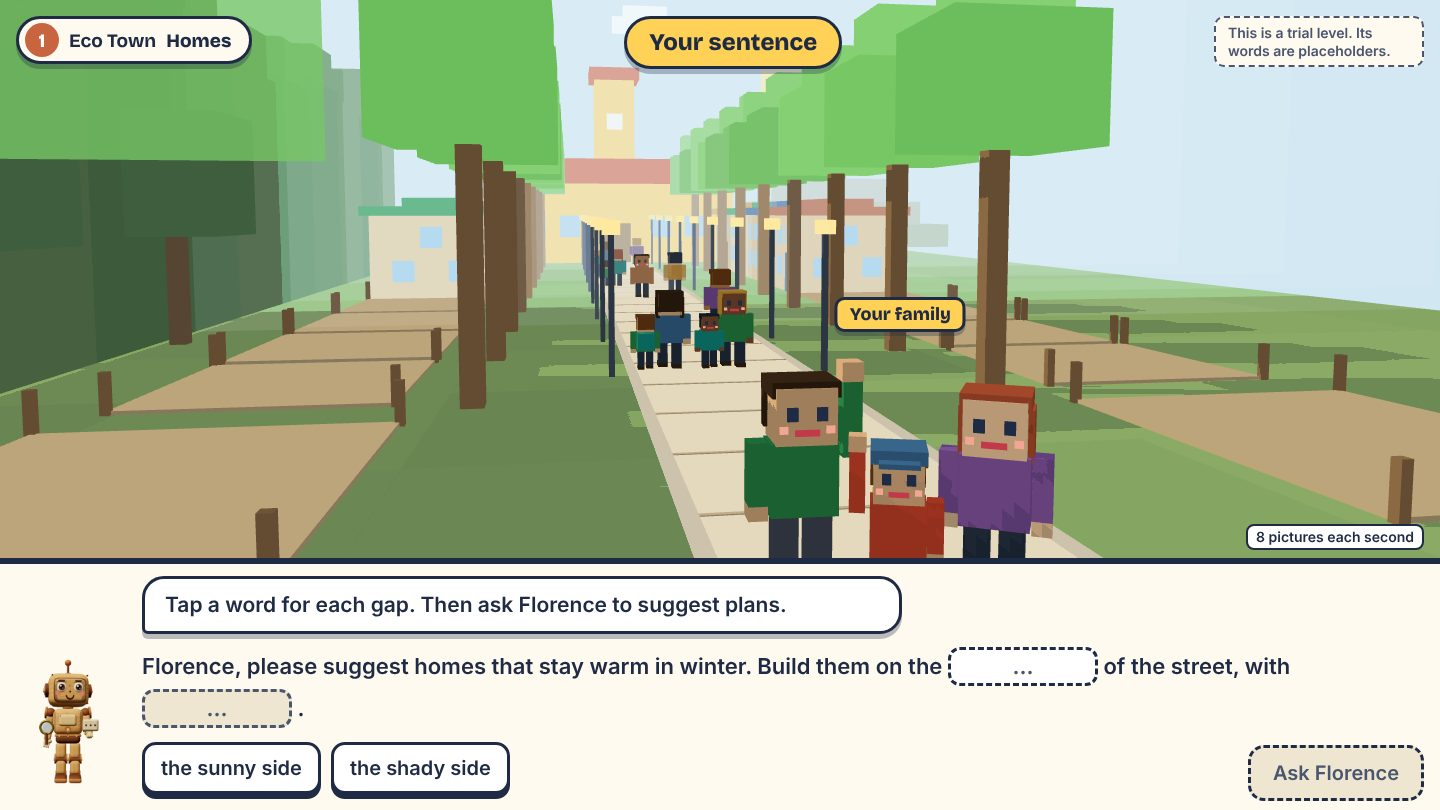
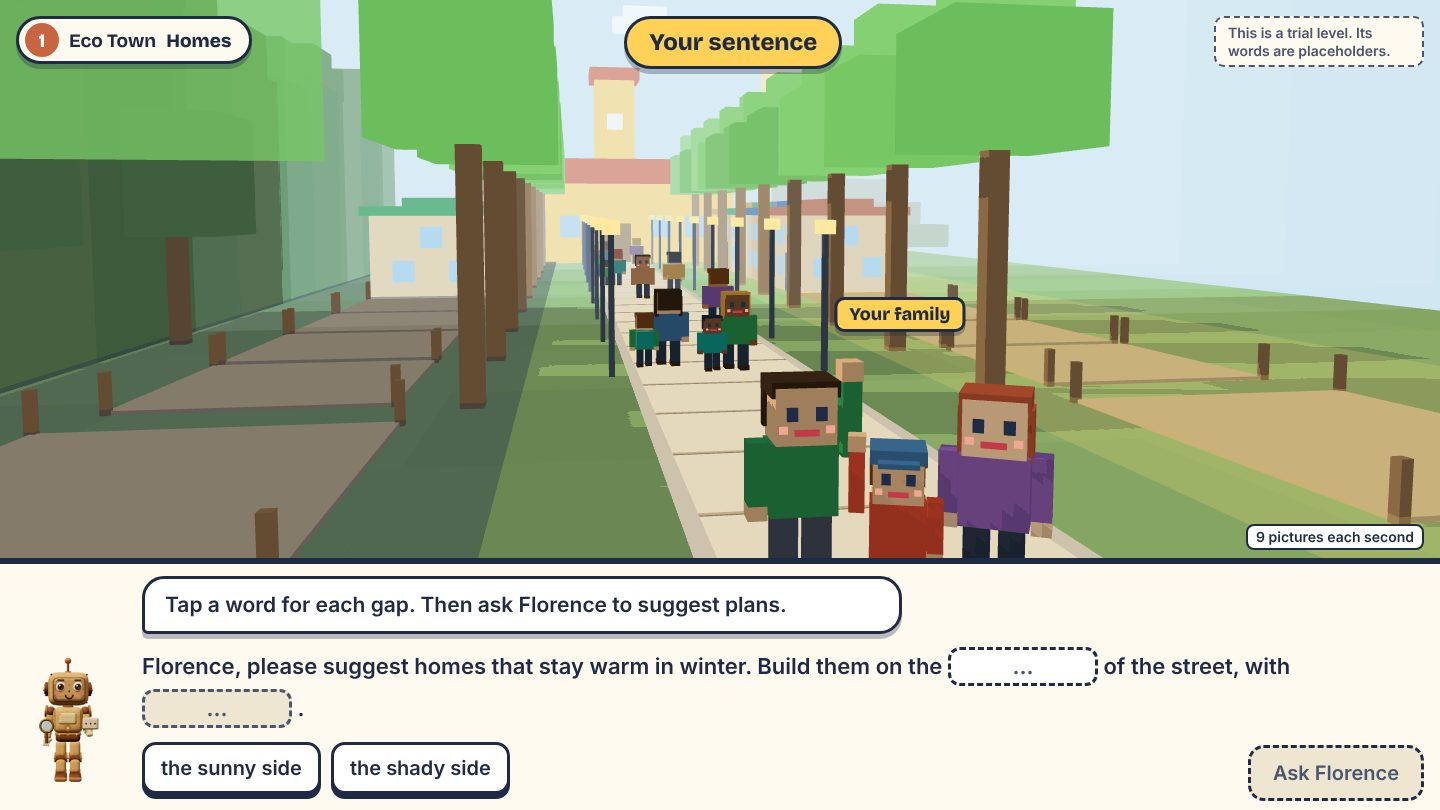
Trial level: the play break redesigned as an open home where the child lets the sun in, and a darker winter night
Claude-Session: https://claude.ai/code/session_01Ecde5Lvgabpd1qnHSP6bP6

diff --git a/docs/redesign/concepts/trial/trial.js b/docs/redesign/concepts/trial/trial.js
@@ -20,13 +20,16 @@ const T = { level: 'A warm home for winter',
   plans: [['Timber home', 'Wood from the town forest, cut in a sawmill that runs on sunshine.'], ['Brick home', 'Clay bricks, baked hard in a hot oven.'], ['Concrete home', 'Cement, made in a very hot kiln.']],
   checks: ['Staying warm', 'Clean air'], warm: { g: 'It stays warm all night.', f: 'It gets a little cold by morning.', p: 'It is cold inside all night.' }, tag: { g: 'Warm', f: 'A little cold', p: 'Cold' },
   air: ['Making the wood adds no pollution.', 'Baking the bricks adds some pollution.', 'Making the cement adds a lot of pollution.'],
-  build: 'Build your home', win2: 'You have two windows. Tap a yellow place to put one in.', win1: 'You have one more window. Tap a yellow place to put it in.', roof: 'Tap the yellow place to lower the roof.', shadyWin: 'The walls on this side are in shade, but the sun reaches the roof. A window in the roof lets it in.', door: 'Choose a colour for the door. Then tap the yellow place.',
-  sunIn: 'The winter sun shines in through this window and warms the home.', noSun: 'This wall is in shade, so no sun comes in here. You can tap the window to take it out again.', shade: 'No wall on this side of the street gets the winter sun.',
-  ready: ['The home is ready, and your family is moving in.', 'One window catches the sun. The home is ready, and your family is moving in.', 'Both windows catch the sun. The home is ready, and your family is moving in.'],
+  build: 'Make it a home', buildHow: 'The front wall is see-through, so that you can look inside. Choose a thing, then tap a yellow place.', winMove: 'To move a window, tap it to take it out. Then tap another yellow place.', bedT: 'Bed', tableT: 'Table', sofaT: 'Sofa', last: 'Goes on last', sunThings: (a) => `The ${a.length > 1 ? `${a.slice(0, -1).join(', ')} and ${a[a.length - 1]} are` : `${a[0]} is`} in the winter sun.`, win2: 'You have two windows. Tap a yellow place in a wall to put one in.', win1: 'You have one more window. Tap a yellow place to put it in.', roof: 'Everything is inside. Tap the yellow place to lower the roof.', shadyWin: 'The walls on this side are in shade, but the sun reaches the roof. A window in the roof lets it in.', door: 'Choose a colour for the door. Then tap the yellow place.',
+  sunIn: 'The winter sun shines in through this window, and a patch of sun lies on the floor.', noSun: 'This wall is in shade, so no sun comes in here. To move it, choose Window and tap it.', shade: 'No wall on this side of the street gets the winter sun.',
+  ready: ['Now the roof lifts, so that you can look inside.', 'One window catches the sun. Now the roof lifts, so that you can look inside.', 'Both windows catch the sun. Now the roof lifts, so that you can look inside.'],
   window: 'Window', roofT: 'Roof', doorT: 'Door', left: (n) => `${n} left`, placed: 'In place', colour: 'Door colour', family: 'Your family', plot: 'Your plot', yours: 'Your home', next: 'Next',
   town: 'The street is built', homes: ['Timber homes', 'Brick homes', 'Concrete homes'], afterAir: ['Making the wood added no pollution, and the air is clean.', 'Baking the bricks added some pollution.', 'Making the cement added a lot of pollution.'],
   afterWarm: { g: 'The homes stay warm at night.', f: 'The homes get a little cold by morning.', p: 'The homes are cold at night.' }, built: 'The whole street is built your way.',
   tryOther: 'Try another plan', chooseOther: 'Choose a different plan to see it in the town.', first: 'Your first plan', what: 'What changed?', keepFirst: 'Go back to my first plan', keepThis: 'Keep this plan',
+  insideT: 'Make it a home', inside: ['The pale patches on the floor are where the sun comes in.', 'No sun comes in through these windows, so the floor has no patch of sun.'],
+  putAsk: ['Where does the bed go? Tap a yellow place.', 'Where does the table go? Tap a yellow place.', 'Where does the sofa go? Tap a yellow place.'],
+  inSun: ['The bed is in the sun. It will be warm to wake up in.', 'The table is in the sun. Breakfast will be bright.', 'The sofa is in the sun. It is a warm place to read.'], inRoom: ['The bed is in place.', 'The table is in place.', 'The sofa is in place.'], homeDone: 'The roof is on. The home is ready, and your family is moving in.',
   nightT: 'The first winter night', nightSay: { g: 'Snow is falling, and every home in your street glows warm.', f: 'Snow is falling. The homes in your street are a little cold tonight.', p: 'Snow is falling. The homes in your street are cold tonight.' }, recapT: 'One more question', recapQ: 'Which side of the street does the winter sun warm? Tap that side.', thisSide: 'This side', sunSide: 'The sunny side', recapYes: 'Yes. The low winter sun reaches this side, so homes here stay warmer.', recapNo: 'The winter sun shines on this side. The wood keeps the other side in shade.',
   end: 'This is the end of the trial level. Thank you for playing.', replay: 'Play again' };
 
@@ -67,7 +70,8 @@ let cur = null, tws = [], run = 0;
 function newScene(half, o = {}) { const scene = new THREE.Scene(), hemi = new THREE.HemisphereLight('#fff6e8', '#cfc6b0', 1.5), sun = new THREE.DirectionalLight('#ffe9c4', 1.7);
   scene.add(hemi); sun.position.set(...(o.sun || [-16, 30, 18])); sun.castShadow = true; sun.shadow.mapSize.set(2048, 2048); Object.assign(sun.shadow.camera, { left: -half, right: half, top: half * 0.75, bottom: -half * 0.75, near: 1, far: 160 }); sun.shadow.bias = -0.002; sun.shadow.normalBias = 0.09; scene.add(sun);
   scene.background = new THREE.Color(SKY); return { scene, hemi, sun, g: group(scene), picks: [], plates: [], minAspect: 1.9 }; }
-let swayT = 0;
+let swayT = 0; const NIGHTLEAF = new THREE.Color('#1f3d3c');
+const dimLeaves = (k) => { for (const m of mats.values()) if (m.isMeshBasicMaterial) { if (!m.userData.c) { m.userData.c = m.color.clone(); m.userData.leaf = m.color.g > m.color.r * 1.08 && m.color.g > m.color.b * 1.08; } if (m.userData.leaf) m.color.copy(m.userData.c).lerp(NIGHTLEAF, k); } };
 function fit() { if (!cur) return; const f = cur.fov * Math.PI / 180; cam.fov = cam.aspect >= cur.minAspect ? cur.fov : 2 * Math.atan(Math.tan(f / 2) * cur.minAspect / cam.aspect) * 180 / Math.PI; cam.position.set(cur.eye[0] + Math.sin(swayT * 0.31) * 0.16, cur.eye[1] + Math.sin(swayT * 0.23 + 1) * 0.09, cur.eye[2] + Math.cos(swayT * 0.27) * 0.16); cam.lookAt(cur.at[0], cur.at[1] - (view.clientHeight < 560 ? cur.drop || 0 : 0), cur.at[2]); cam.updateProjectionMatrix(); cam.updateMatrixWorld(); }
 // the camera glides from one view of the same place to another
 const glide = (to, sec = 1.6) => { const a = { eye: [...cur.eye], at: [...cur.at], fov: cur.fov, drop: cur.drop || 0 }, mix = (p, q, k) => p.map((v, i) => v + (q[i] - v) * k); return tw(sec, (k) => { const e = ease(k); cur.eye = mix(a.eye, to.eye, e); cur.at = mix(a.at, to.at, e); cur.fov = a.fov + (to.fov - a.fov) * e; cur.drop = a.drop + ((to.drop || 0) - a.drop) * e; fit(); }); };
@@ -97,7 +101,7 @@ function loop(now) { requestAnimationFrame(loop); const dt = Math.min(0.1, (now 
 
 // ---- the place: one street, used for the whole level -----------------------------------------------------------------------
 // Side 0 is the sunny side (on the right of the picture) and side 1 the shady side (on the left, under the wood).
-const SIDEZ = [-12.7, 12.7], PX = [1, -10, -18, -26, -34], VIEW = { street: { eye: [19, 5, 4.6], at: [-10, 3, 0], fov: 33 }, plans: [{ eye: [-13, 6.6, 14.5], at: [-18.5, 2.3, -12.7], fov: 48, drop: 1.7 }, { eye: [-23, 6.6, -14.5], at: [-17.5, 2.3, 12.7], fov: 48, drop: 1.7 }], build: [{ eye: [14.5, 4.6, -0.5], at: [0.5, 3.1, -10.2], fov: 33 }, { eye: [15, 9.6, 0], at: [0.5, 3.8, 10.4], fov: 33 }] };
+const SIDEZ = [-12.7, 12.7], PX = [1, -10, -18, -26, -34], VIEW = { street: { eye: [19, 5, 4.6], at: [-10, 3, 0], fov: 33 }, plans: [{ eye: [-13, 6.6, 14.5], at: [-18.5, 2.3, -12.7], fov: 48, drop: 1.7 }, { eye: [-23, 6.6, -14.5], at: [-17.5, 2.3, 12.7], fov: 48, drop: 1.7 }], build: [{ eye: [4, 13.5, 0.6], at: [1, 2.3, -12.2], fov: 36 }, { eye: [-2, 13.5, -0.6], at: [1, 2.3, 12.2], fov: 36 }], hero: [{ eye: [14.5, 4.6, -0.5], at: [0.5, 3.1, -10.2], fov: 33 }, { eye: [15, 9.6, 0], at: [0.5, 3.8, 10.4], fov: 33 }] };
 const HW = 10, HD = 8, HH = 5.2, FRONT = [-3, 0.2], GABLE = [-1.9, 1.9], DOORX = 3.4;
 function town() { const s = newScene(46, { sun: [-10, 36, 48] }), g = s.g; Object.assign(s, VIEW.street, { eye: [...VIEW.street.eye], at: [...VIEW.street.at], minAspect: 1.9 });
   const sunDir = new THREE.Vector3(-10, 36, 48).normalize();
@@ -118,7 +122,10 @@ function town() { const s = newScene(46, { sun: [-10, 36, 48] }), g = s.g; Objec
   // the low winter sun, on the sunny side, and two clouds
   const sunBox = B(g, -116, -27, 1, 8, 22, 8, '#ffe9a0', { raw: true, unlit: true, shadow: false }); const clouds = [[30, -8], [34, 20]].map(([y, z]) => { const c = group(g, -114, y, z); B(c, 0, 0, 2, 13, 0, 2, '#ffffff', { raw: true, unlit: true, wx: -114 }); B(c, 0, 2, 2, 6, 2, 1.5, '#ffffff', { raw: true, unlit: true, wx: -114 }); return c; });
   // large see-through leaves near the camera, over the edges of the picture
-  for (const [x, z] of [[12, 9.6]]) { B(g, x, z, 6, 5, 5.6, 3.2, LEAF[0], { op: 0.78, unlit: true, raw: true }); B(g, x + 1, z - 0.4, 3.6, 3.2, 8.8, 2, LEAF[1], { op: 0.78, unlit: true, raw: true }); B(g, x, z, 0.5, 0.5, 0, 5.6, '#8a6a44'); }
+  dimLeaves(0); const near = group(g);
+  // the wood keeps one side of the street in shade all day, and the low sun lies on the other side: both can be seen on the ground
+  blk(g, -30, 14.5, 96, 17, 0.12, 0.03, '#1b2a4a', { shadow: false, mat: soft('#1b2a4a', 0.34) }); blk(g, -30, -14.5, 96, 17, 0.12, 0.03, '#ffe27a', { shadow: false, mat: soft('#ffe27a', 0.2) });
+  for (const [x, z] of [[12, 9.6]]) { B(near, x, z, 6, 5, 5.6, 3.2, LEAF[0], { op: 0.78, unlit: true, raw: true }); B(near, x + 1, z - 0.4, 3.6, 3.2, 8.8, 2, LEAF[1], { op: 0.78, unlit: true, raw: true }); B(near, x, z, 0.5, 0.5, 0, 5.6, '#8a6a44'); }
   const sheets = [-24, -38, -52, -66].map((x, k) => blk(g, x, 0, 0.1, 110, 0, 56, SHEET, { shadow: false, mat: soft(SHEET, [0.1, 0.14, 0.18, 0.22][k]) }));
   // the empty plots near the camera, five on each side; the first on each side could be the family's plot
   const plots = SIDEZ.map((z, sd) => PX.map((x, k) => { const p = group(g, x, 0, z), w = k ? 7.3 : HW, d = k ? 7 : HD; B(p, 0, 0, w, d, 0, 0.1, '#dccaa2', { wx: x, shadow: false }); for (const [a, b] of [[-1, -1], [1, -1], [-1, 1], [1, 1]]) B(p, a * w / 2, b * d / 2, 0.22, 0.22, 0, 1.1, '#8a6a44', { wx: x });
@@ -134,7 +141,7 @@ function town() { const s = newScene(46, { sun: [-10, 36, 48] }), g = s.g; Objec
   const snow = []; for (let k = 0; k < 150; k++) { const m = blk(g, 12 - hash(k, 1) * 70, (hash(k, 2) - 0.5) * 50, 0.22, 0.22, 0, 0.22, '#fff', { shadow: false, mat: M('#ffffff', 0, { raw: true, unlit: true }) }); m.visible = false; snow.push({ m, y: hash(k, 4) * 24, v: 3 + hash(k, 6) * 2 }); }
   // night and day
   const day = new THREE.Color(SKY), dusk = new THREE.Color('#8ea2c8'), hemi0 = s.hemi.intensity, sun0 = s.sun.intensity, farGlass = M(GLASS, 0, { unlit: true, raw: true }); let nightK = 0;
-  s.setNight = (k) => { nightK = k; s.scene.background.copy(day).lerp(dusk, k); s.hemi.intensity = hemi0 * (1 - 0.3 * k); s.sun.intensity = sun0 * (1 - 0.8 * k); for (const sh of sheets) sh.material.color.set(SHEET).lerp(c0.set('#a9b8d6'), k); sunBox.visible = k < 0.5; for (const c of clouds) c.visible = k < 0.5; for (const f of snow) f.m.visible = k > 0.05; farGlass.color.set(GLASS).lerp(c0.set(LIT), k); for (const m of glow) m.visible = k > 0.5; };
+  s.setNight = (k) => { nightK = k; s.scene.background.copy(day).lerp(dusk, k); s.hemi.intensity = hemi0 * (1 - 0.3 * k); s.sun.intensity = sun0 * (1 - 0.8 * k); for (const sh of sheets) sh.material.color.set(SHEET).lerp(c0.set('#a9b8d6'), k); sunBox.visible = k < 0.5; for (const c of clouds) c.visible = k < 0.5; for (const f of snow) f.m.visible = k > 0.05; farGlass.color.set(GLASS).lerp(c0.set(LIT), k); for (const m of glow) m.visible = k > 0.5; dimLeaves(k * 0.62); };
 
   // ---- the child's words, drawn in the town ----
   s.side = null; s.thick = null;
@@ -159,49 +166,68 @@ function town() { const s = newScene(46, { sun: [-10, 36, 48] }), g = s.g; Objec
 
   // ---- the family's home, built by the child ----
   let H = null;
-  s.startBuild = async (pick) => { const me = run, sd = s.side, z = SIDEZ[sd], m = MAT[pick], R = { raw: true, wx: 0 }; famPlate.hide = true; plotPlate.hide = true;
+  // ---- the play break: the family's home, open at the front like a doll's house. The child lets the winter sun in and puts the family's things where it falls ----
+  s.startBuild = async (pick) => { const me = run, sd = s.side, z = SIDEZ[sd], m = MAT[pick]; famPlate.hide = true; plotPlate.hide = true;
     await Promise.all([tw(1.2, (k) => s.setNight(1 - ease(k))), ...samples.map((q) => pop(q.h, 1, 0.01, 0.5)), tw(1, (k) => { for (const q of samples) for (const p of q.cloud) p.m.material.opacity = 0.78 * (1 - k); })]); if (me !== run) return; s.clearPlans(); cloudT = -1;
     footing.forEach((pair) => pair.forEach((f) => { f.visible = false; })); plots[sd][0].visible = false;
-    const hg = group(g, PX[0], 0, z); hg.rotation.y = sd ? Math.PI : 0; const t = s.thick ? 0.9 : 0.3;
-    const wallMat = new THREE.MeshLambertMaterial({ color: m.wall }), lineMat = new THREE.MeshLambertMaterial({ color: m.line });
-    B(hg, 0, 0, HW + 0.8, HD + 0.8, 0, 0.3, '#d9d2c2', { wx: 0 }); const walls = group(hg, 0, 0.3, 0); B(walls, 0, 0, HW, HD, 0, HH, m.wall, { mat: wallMat }); for (const y of [1.3, 2.6, 3.9]) { B(walls, 0, HD / 2, HW, 0.04, y, 0.07, m.line, { mat: lineMat, shadow: false }); for (const sx of [-1, 1]) B(walls, sx * HW / 2, 0, 0.04, HD, y, 0.07, m.line, { mat: lineMat, shadow: false }); }
-    B(walls, 0, 0, HW + 0.04, HD + 0.04, HH - 0.12, 0.14, LINING, s.thick ? R : { mat: lineMat }); B(walls, 0, 0, HW - 2 * t, HD - 2 * t, HH - 0.1, 0.14, '#5a4630', { ...R, shadow: false });      // the top of the walls shows how thick they are
-    B(walls, DOORX, HD / 2 + 0.02, 1.8, 0.08, 0, 3.3, '#5a4630', { wx: 0, shadow: false }); walls.scale.y = 0.01;
-    // the yellow places: two on the front wall and two on each end wall
-    const spots = [...FRONT.map((x) => ({ wall: 'front', p: [x, 1.9, HD / 2 + 0.16], ry: 0 })), ...GABLE.map((zz) => ({ wall: 'end', p: [HW / 2 + 0.16, 1.9, zz], ry: Math.PI / 2 })), ...GABLE.map((zz) => ({ wall: 'end', p: [-HW / 2 - 0.16, 1.9, zz], ry: -Math.PI / 2 }))];
+    const hg = group(g, PX[0], 0, z); hg.rotation.y = sd ? Math.PI : 0; const t = s.thick ? 0.9 : 0.3, U = (c) => ({ shadow: false, mat: M(c, 0, { raw: true, unlit: true }) });
+    const wallMat = new THREE.MeshLambertMaterial({ color: m.wall }), lineMat = new THREE.MeshLambertMaterial({ color: m.line }), frontMat = new THREE.MeshLambertMaterial({ color: m.wall, transparent: true, opacity: 0.2, depthWrite: false });
+    B(hg, 0, 0, HW + 0.8, HD + 0.8, 0, 0.3, '#d9d2c2', { wx: 0 }); const walls = group(hg, 0, 0.3, 0);
+    blk(walls, 0, 0, HW - 0.2, HD - 0.2, 0, 0.06, '#d2ab74', U('#d2ab74')); for (let k = 0; k < 5; k++) blk(walls, 0, -3.1 + k * 1.55, HW - 2 * t, 0.05, 0.06, 0.02, '#b98f58', U('#b98f58'));
+    // the back wall and the two end walls are solid, as thick as the child asked for; the front wall is see-through until the roof is on
+    blk(walls, 0, -HD / 2 + t / 2, HW, t, 0, HH, m.wall, { mat: wallMat }); for (const sx of [-1, 1]) blk(walls, sx * (HW / 2 - t / 2), 0, t, HD - 2 * t, 0, HH, m.wall, { mat: wallMat });
+    const front = blk(walls, 0, HD / 2 - t / 2, HW, t, 0, HH, m.wall, { shadow: false, mat: frontMat });
+    blk(walls, 0, -HD / 2 + t + 0.03, HW - 2 * t, 0.06, 0.06, HH - 0.1, '#f1e6cf', U('#f1e6cf')); for (const sx of [-1, 1]) blk(walls, sx * (HW / 2 - t - 0.03), 0, 0.06, HD - 2 * t, 0.06, HH - 0.1, '#e6d9bd', U('#e6d9bd'));
+    if (s.thick) { blk(walls, 0, -HD / 2 + t / 2, HW, t, HH, 0.05, LINING, U(LINING)); for (const sx of [-1, 1]) blk(walls, sx * (HW / 2 - t / 2), 0, t, HD - 2 * t, HH, 0.05, LINING, U(LINING)); }
+    walls.scale.y = 0.01;
+    // the yellow places for windows: two in the front wall, one in an end wall, two in the back wall
+    const spots = [...FRONT.map((x) => ({ wall: 'front', p: [x, 1.9, HD / 2 - t / 2], f: [x, 1.9, HD / 2 + 0.12], ry: 0 })), { wall: 'end', p: [-HW / 2 + t / 2, 1.9, 0], f: [-HW / 2 + t + 0.12, 1.9, 0], ry: Math.PI / 2 }, ...[-2.4, 2.4].map((x) => ({ wall: 'back', p: [x, 1.9, -HD / 2 + t / 2], f: [x, 1.9, -HD / 2 + t + 0.12], ry: 0 }))];
     // on the shady side the walls get no sun, but the sun comes over the wood onto the roof: two more places, for windows in the roof
-    if (sd) for (const x of [-2.6, 2.6]) spots.push({ wall: 'roof', p: [x, 0.3 + HH + 0.62, 3.9], ry: 0, flat: true });
-    const lit = glassMat(), beamMat = soft('#ffe27a', 0.34);
-    for (const q of spots) { q.frame = group(hg, ...q.p); q.frame.rotation.y = q.ry; if (q.flat) q.frame.rotation.x = -Math.PI / 2; frame(q.frame, 0, 0, 0, 2.3, 2.1, true); q.frame.visible = false;
-      q.part = group(hg, ...q.p); q.part.rotation.y = q.ry; if (q.flat) q.part.rotation.x = -Math.PI / 2; blk(q.part, 0, 0, 2.3, 0.24, 0, 2.1, '#fbfbf7', { mat: M('#fbfbf7', 0, { raw: true }) }); q.glass = glassMat(); blk(q.part, 0, 0.06, 1.95, 0.22, 0.17, 1.76, GLASS, { shadow: false, mat: q.glass }); blk(q.part, 0, 0.1, 0.12, 0.22, 0.17, 1.76, '#fbfbf7', { shadow: false, mat: M('#fbfbf7', 0, { raw: true }) }); q.part.visible = false;
+    if (sd) for (const x of [-2.6, 2.6]) spots.push({ wall: 'roof', p: [x, 0.3 + HH + 0.62, 3.9], f: [x, 0.3 + HH + 0.62, 3.9], ry: 0, flat: true });
+    const beamMat = soft('#ffe27a', 0.34), W = M('#fbfbf7', 0, { raw: true });
+    for (const q of spots) { const dp = q.flat ? 0.24 : t + 0.3; q.frame = group(hg, ...q.f); q.frame.rotation.y = q.ry; if (q.flat) q.frame.rotation.x = -Math.PI / 2; frame(q.frame, 0, 0, 0, 2.3, 2.1, true); q.frame.visible = false;
+      q.part = group(hg, ...q.p); q.part.rotation.y = q.ry; if (q.flat) q.part.rotation.x = -Math.PI / 2; q.glass = glassMat(); if (q.wall === 'front') { q.glass.transparent = true; q.glass.opacity = 0.3; q.glass.depthWrite = false; for (const [x, y, w, h] of [[0, 0, 2.3, 0.17], [0, 1.93, 2.3, 0.17], [-1.07, 0, 0.17, 2.1], [1.07, 0, 0.17, 2.1]]) blk(q.part, x, 0, w, 0.34, y, h, '#fbfbf7', { mat: W, shadow: false }); } else blk(q.part, 0, 0, 2.3, dp, 0, 2.1, '#fbfbf7', { mat: W }); blk(q.part, 0, 0, 1.95, q.wall === 'front' ? 0.1 : dp + 0.08, 0.17, 1.76, GLASS, { shadow: false, mat: q.glass }); blk(q.part, 0, 0, 0.12, dp + 0.12, 0.17, 1.76, '#fbfbf7', { shadow: false, mat: W }); q.part.visible = false;
       q.sunny = q.wall === 'roof' || (sd === 0 && q.wall === 'front');
-      // a shaft of sunlight that comes down into a window on the sunny wall
-      q.beam = new THREE.Mesh(new THREE.BoxGeometry(1.9, 1.7, 9), beamMat); q.beam.visible = false; g.add(q.beam); }
-    const roof = group(hg, 0, 9.4, 0); blk(roof, 0, 0, HW + 0.9, HD + 1.2, 0, 0.6, ROOF[2], { mat: M(ROOF[2], 0) }); blk(roof, 0, 0, HW + 0.9, HD * 0.45, 0.6, 0.55, ROOF[2], { mat: M(ROOF[2], 0) }); const ropes = [-4.2, 4.2].map((x) => blk(roof, x, 0, 0.08, 0.08, 1.1, 16, '#2b3a55', { shadow: false })); roof.visible = false;
+      // a shaft of sunlight comes in through a window that faces the sun, and a patch of sun lies on the floor inside
+      q.beam = new THREE.Mesh(new THREE.BoxGeometry(1.9, 1.7, 9), beamMat); q.beam.visible = false; g.add(q.beam); q.patch = blk(walls, q.p[0], 1.25, 2.5, 4.6, 0.08, 0.03, '#ffe98a', { shadow: false, mat: soft('#ffe98a', 0.95) }); q.patch.visible = false; }
+    const roof = group(hg, 0, 12.5, 0); blk(roof, 0, 0, HW + 0.9, HD + 1.2, 0, 0.6, ROOF[2], { mat: M(ROOF[2], 0) }); blk(roof, 0, 0, HW + 0.9, HD * 0.45, 0.6, 0.55, ROOF[2], { mat: M(ROOF[2], 0) }); const ropes = [-4.2, 4.2].map((x) => blk(roof, x, 0, 0.08, 0.08, 1.1, 16, '#2b3a55', { shadow: false })); roof.visible = false;
+    const ghost = blk(hg, 0, 0, HW + 0.9, HD + 1.2, 0.3 + HH, 0.5, ROOF[2], { shadow: false, mat: soft(ROOF[2], 0.09) }); ghost.visible = false;
     const roofSpot = group(hg, 0, 0.3 + HH, 0); frame(roofSpot, 0, 0.1, HD / 2 + 0.2, HW, 0.9, true); for (const sx of [-1, 1]) { const f = group(roofSpot, sx * (HW / 2 + 0.2), 0.1, 0); f.rotation.y = sx * Math.PI / 2; frame(f, 0, 0, 0, HD, 0.9, true); } roofSpot.visible = false;
     const doorSpot = group(hg, DOORX, 0.3, HD / 2 + 0.2); frame(doorSpot, 0, 0, 0, 1.8, 3.3, true); doorSpot.visible = false;
-    const doorMat = new THREE.MeshLambertMaterial({ color: tone(DOOR[S.doorC]) }), door = group(hg, DOORX, 0.3, HD / 2 + 0.14); blk(door, 0, 0, 1.8, 0.16, 0, 3.3, '#fff', { mat: doorMat }); blk(door, -0.6, 0.1, 0.2, 0.1, 1.5, 0.2, '#ffd257', { shadow: false, mat: M('#ffd257', 0, { raw: true, unlit: true }) }); door.visible = false;
-    H = { hg, spots, roof, door, lit, sd, wallMat, lineMat };
-    tw(1.3, (k) => { const e = ease(k); family.position.set(8 + (-7.5 - 8) * e, Math.abs(Math.sin(k * 14)) * 0.12 * (k < 1), 0.6 + ((sd ? 4.6 : -4.6) - 0.6) * e); family.rotation.y = (sd ? -0.5 : 0.4) * e; });
-    await Promise.all([glide(VIEW.build[sd], 1.8), tw(1.4, (k) => { walls.scale.y = Math.max(0.01, ease(k)); })]); if (me !== run) return; roof.visible = true; beep(500, 0.1);
-    for (const q of avenue) if (q.tree && q.sd === sd && sd && q.x > -10) q.o.visible = false; const order = sd ? ['roof', 'win', 'door'] : ['win', 'roof', 'door']; let tool = order[0], busy = false; const used = new Set(); let roofOn = false, doorOn = false, note = ''; s.done = false;
-    const left = () => ({ win: 2 - used.size, roof: roofOn ? 0 : 1, door: doorOn ? 0 : 1 });
-    const show = () => { const n = left(); spots.forEach((q, i) => { q.frame.visible = !s.done && tool === 'win' && n.win > 0 && !used.has(i); }); roofSpot.visible = !s.done && tool === 'roof' && !roofOn; doorSpot.visible = !s.done && tool === 'door' && !doorOn; s.onChange(tool, n, s.done, note, [...used].filter((i) => spots[i].sunny).length); };
-    const finish = async () => { s.done = true; show(); chime(); await wait(0.4); if (me !== run) return; for (const i of used) spots[i].glass.color.set(spots[i].sunny ? LIT : WARM[level(pick)]); const a = family.position.clone(), to = hg.localToWorld(new THREE.Vector3(DOORX - 1.2, 0, HD / 2 + 2.4));
-      await tw(2, (k) => { const e = ease(k); family.position.set(a.x + (to.x - a.x) * e, Math.abs(Math.sin(k * 16)) * 0.14 * (k < 1), a.z + (to.z - a.z) * e); }); if (me === run) s.onDone(); };
-    const next = () => { const n = left(); if (!n[tool]) tool = order.find((k) => n[k]) || tool; if (!n.win && !n.roof && !n.door) finish(); else show(); };
-    s.setTool = (k) => { if (s.done || !left()[k] || (sd && k === 'win' && !roofOn)) return; tool = k; note = ''; show(); };
-    s.setDoor = (i) => { S.doorC = i; doorMat.color.set(tone(DOOR[i])); if (!s.done && !doorOn && !left().win && roofOn) tool = 'door'; show(); };
-    spots.forEach((q, i) => { hitBox(s, hg, ...(q.flat ? [q.p[0], q.p[1] - 0.2, q.p[2] - 1.05, 2.6, 0.9, 2.3] : [q.p[0], q.p[1] - 0.1, q.p[2], q.ry ? 1 : 2.6, 2.4, q.ry ? 2.6 : 1]), () => !s.done && !busy && (used.has(i) || (tool === 'win' && left().win > 0)), () => {
-      if (used.has(i)) { used.delete(i); q.part.visible = false; q.beam.visible = false; tool = 'win'; note = ''; beep(300, 0.08); show(); return; }
+    const doorMat = new THREE.MeshLambertMaterial({ color: tone(DOOR[S.doorC]) }), door = group(hg, DOORX, 0.3, HD / 2 + 0.14); blk(door, 0, 0, 1.8, 0.16, 0, 3.3, '#fff', { mat: doorMat }); blk(door, -0.6, 0.1, 0.2, 0.1, 1.5, 0.2, '#ffd257', U('#ffd257')); door.visible = false;
+    // the family's three things, and the places on the floor where they can go
+    const C = (o, x, zz, w, d, y, h, c) => blk(o, x, zz, w, d, y, h, c, { mat: M(c, 0, { raw: true }) }), FUR = ['bed', 'table', 'sofa'];
+    const make = { bed: (o) => { C(o, 0, 0, 2.2, 1.5, 0, 0.5, '#f3ede0'); C(o, 0.32, 0, 1.5, 1.54, 0.5, 0.12, '#c8553d'); C(o, -0.8, 0, 0.45, 1, 0.5, 0.2, '#ffffff'); },
+      table: (o) => { C(o, 0, 0, 1.5, 1.1, 0.7, 0.12, '#9a6b3c'); C(o, 0, 0, 0.3, 0.3, 0, 0.7, '#7a5230'); for (const sx of [-1, 1]) C(o, sx * 1.02, 0, 0.42, 0.42, 0, 0.45, '#3f8f7a'); },
+      sofa: (o) => { C(o, 0, 0.1, 2.1, 0.9, 0, 0.5, '#3f7fb0'); C(o, 0, -0.4, 2.1, 0.28, 0, 1.1, '#356d98'); C(o, -0.6, 0.15, 0.5, 0.5, 0.5, 0.14, '#ffd24d'); } };
+    const P = [[-3.1, 1.6], [0.1, 1.6], ...(sd ? [[2.7, 1.6]] : []), [-3.1, -1.7], [0.1, -1.7], [3, -1.7]].filter(([x, zz]) => Math.abs(x) < HW / 2 - t - 1.1 || true), marks = P.map(([x, zz]) => { const mk = place(walls, x, zz, 2.5, 1.8, 0.1); mk.visible = false; return mk; }), where = {}, occ = new Set();
+    const inSun = (i) => P[i][1] > 0 && spots.some((q) => q.patch.visible && Math.abs(q.p[0] - P[i][0]) < 1.3);
+    H = { hg, spots, roof, door, sd, wallMat, lineMat, walls };
+    const home = hg.localToWorld(new THREE.Vector3(3.35, 0.36, -0.05)), fa = family.position.clone(), hop = () => tw(0.7, (k) => { family.position.y = home.y + Math.abs(Math.sin(k * Math.PI * 2)) * 0.5 * (k < 1); });
+    tw(1.8, (k) => { const e = ease(k); family.position.set(fa.x + (home.x - fa.x) * e, home.y * e + Math.abs(Math.sin(k * 14)) * 0.12 * (k < 1), fa.z + (home.z - fa.z) * e); family.rotation.y = ((sd ? Math.PI : 0) - 0.45) * e; family.scale.setScalar(1 - 0.4 * e); });
+    for (const q of avenue) if (q.tree && q.sd === sd && q.x > -10) q.o.visible = false; if (sd) near.visible = false;
+    await Promise.all([glide(VIEW.build[sd], 1.8), tw(1.4, (k) => { walls.scale.y = Math.max(0.01, ease(k)); })]); if (me !== run) return; roof.visible = true; ghost.visible = !!sd; beep(500, 0.1);
+    const order = ['win', ...FUR, 'door', 'roof']; let tool = 'win', busy = false; const used = new Set(); let roofOn = false, doorOn = false, note = sd ? T.shadyWin : T.buildHow; s.done = false;
+    const left = () => ({ win: 2 - used.size, bed: where.bed === undefined ? 1 : 0, table: where.table === undefined ? 1 : 0, sofa: where.sofa === undefined ? 1 : 0, door: doorOn ? 0 : 1, roof: roofOn ? 0 : 1 }), ready = () => { const n = left(); return !n.win && !n.bed && !n.table && !n.sofa && !n.door; };
+    const show = () => { const n = left(), f = FUR.includes(tool) && n[tool] > 0; spots.forEach((q, i) => { q.frame.visible = !s.done && tool === 'win' && n.win > 0 && !used.has(i); }); marks.forEach((mk, i) => { mk.visible = !s.done && f && !occ.has(i); }); roofSpot.visible = !s.done && tool === 'roof' && !roofOn; doorSpot.visible = !s.done && tool === 'door' && !doorOn; s.onChange(tool, n, s.done, note, ready(), used.size); };
+    const finish = async () => { s.done = true; s.sunThings = FUR.filter((k) => inSun(where[k])); show(); chime(); await wait(0.5); if (me !== run) return; for (const i of used) { spots[i].glass.color.set(spots[i].sunny ? LIT : WARM[level(pick)]); spots[i].glass.opacity = 1; spots[i].glass.transparent = false; }
+      const a = family.position.clone(), to = hg.localToWorld(new THREE.Vector3(DOORX - 1.2, 0, HD / 2 + 2.4)); glide(VIEW.hero[sd], 2.2);
+      await tw(2.2, (k) => { const e = ease(k); family.position.set(a.x + (to.x - a.x) * e, a.y * (1 - e) + Math.abs(Math.sin(k * 16)) * 0.14 * (k < 1), a.z + (to.z - a.z) * e); family.scale.setScalar(0.6 + 0.4 * e); family.rotation.y = (sd ? -0.5 : 0.4); }); if (me === run) s.onDone(); };
+    const next = () => { const n = left(); if (!n[tool] || (tool === 'roof' && !ready())) tool = order.find((k) => n[k]) || tool; if (!order.some((k) => n[k])) finish(); else show(); };
+    s.setTool = (k) => { if (s.done || busy || (k === 'win' ? !left().win && !used.size : !left()[k]) || (k === 'roof' && !ready())) return; tool = k; note = ''; beep(560, 0.05); show(); };
+    s.setDoor = (i) => { S.doorC = i; doorMat.color.set(tone(DOOR[i])); if (!s.done && !doorOn) tool = 'door'; show(); };
+    spots.forEach((q, i) => { hitBox(s, hg, ...(q.flat ? [q.p[0], q.p[1] - 0.2, q.p[2] - 1.05, 2.6, 0.9, 2.3] : [q.p[0], q.p[1] - 0.1, q.p[2], q.ry ? 1.2 : 2.6, 2.4, q.ry ? 2.6 : 1.2]), () => !s.done && !busy && tool === 'win' && (used.has(i) || left().win > 0), () => {
+      if (used.has(i)) { used.delete(i); q.part.visible = false; q.beam.visible = false; q.patch.visible = false; note = ''; beep(300, 0.08); show(); return; }
       used.add(i); q.part.visible = true; pop(q.part); beep(q.sunny ? 880 : 520, 0.14);
-      if (q.sunny) { const w = q.part.getWorldPosition(new THREE.Vector3()).add(new THREE.Vector3(0, q.flat ? 0.3 : 1.05, 0)); q.beam.position.copy(w).addScaledVector(sunDir, 4.5); q.beam.lookAt(w.clone().addScaledVector(sunDir, 20)); q.beam.visible = true; q.glass.color.set('#fff3b0'); }
-      if (q.sunny) { setTimeout(chime, 120); tw(0.7, (k) => { family.position.y = Math.abs(Math.sin(k * Math.PI * 2)) * 0.55 * (k < 1); }); } note = q.sunny ? T.sunIn : T.noSun; next(); }).frame = q.frame; });
-    hitBox(s, hg, 0, 0.3 + HH - 0.4, 0, HW + 1.4, 5.4, HD + 1.4, () => !s.done && !busy && !roofOn && tool === 'roof', async () => { busy = true; roofOn = true; roofSpot.visible = false; note = sd ? T.shadyWin : ''; await tw(1.1, (k) => { roof.position.y = 9.4 - (9.4 - 0.3 - HH) * ease(k); }); if (me !== run) return; for (const r of ropes) r.visible = false; beep(220, 0.2, 'sine', 0.12); busy = false; next(); }).frame = roofSpot;
+      if (q.sunny) { const w = q.part.getWorldPosition(new THREE.Vector3()).add(new THREE.Vector3(0, q.flat ? 0.3 : 1.05, 0)); q.beam.position.copy(w).addScaledVector(sunDir, q.flat ? 4.5 : 3.2); q.beam.lookAt(w.clone().addScaledVector(sunDir, 20)); q.beam.visible = true; q.glass.color.set('#fff3b0'); q.patch.visible = true; q.patch.scale.set(0.01, 1, 0.01); tw(0.5, (k) => q.patch.scale.set(Math.max(0.01, ease(k)), 1, Math.max(0.01, ease(k)))); setTimeout(chime, 120); hop(); }
+      note = q.sunny ? T.sunIn : T.noSun; next(); }).frame = q.frame; });
+    P.forEach(([x, zz], i) => { hitBox(s, hg, x, 1.1, zz, 2.5, 1.4, 1.8, () => !s.done && !busy && FUR.includes(tool) && left()[tool] > 0 && !occ.has(i), async () => { const k = tool, o = group(walls, x, 0.06, zz), sun = inSun(i); busy = true; where[k] = i; occ.add(i); marks[i].visible = false; make[k](o); o.scale.setScalar(0.01); beep(sun ? 880 : 520, 0.14); await pop(o); if (me !== run) return; if (sun) { chime(); hop(); } note = (sun ? T.inSun : T.inRoom)[FUR.indexOf(k)]; busy = false; next(); }).frame = marks[i]; });
+    hitBox(s, hg, 0, 0.3 + HH - 0.4, 0, HW + 1.4, 5.4, HD + 1.4, () => !s.done && !busy && !roofOn && tool === 'roof', async () => { busy = true; roofOn = true; roofSpot.visible = false; note = ''; s.onChange(tool, left(), true, '', true, used.size); tw(1.1, (k) => { frontMat.opacity = 0.2 + 0.8 * ease(k); });
+      await tw(1.2, (k) => { roof.position.y = 12.5 - (12.5 - 0.3 - HH) * ease(k); }); if (me !== run) return; front.material = wallMat; ghost.visible = false; for (const r of ropes) r.visible = false; beep(220, 0.2, 'sine', 0.12); busy = false; next(); }).frame = roofSpot;
     hitBox(s, hg, DOORX, 0.3, HD / 2 + 0.3, 2.2, 3.4, 1, () => !s.done && !busy && !doorOn && tool === 'door', () => { doorOn = true; door.visible = true; pop(door); beep(660, 0.12); note = ''; next(); }).frame = doorSpot;
-    s.pulse = [...spots.map((q) => q.frame), roofSpot, doorSpot];
+    s.pulse = [...spots.map((q) => q.frame), roofSpot, doorSpot]; s.pulseM = marks;
     // where the yellow places are in the world, for the script that plays the level through
-    s.spot = (name, i = 0) => { const v = name === 'win' ? new THREE.Vector3(spots[i].p[0], spots[i].p[1], spots[i].p[2] - (spots[i].flat ? 1 : 0)) : name === 'roof' ? new THREE.Vector3(0, 0.3 + HH + 0.5, HD / 2 + 0.3) : new THREE.Vector3(DOORX, 1.9, HD / 2 + 0.3); return hg.localToWorld(v).toArray(); };
+    s.spot = (name, i = 0) => { const v = name === 'win' ? new THREE.Vector3(spots[i].f[0], spots[i].f[1] + (spots[i].flat ? 0 : 1), spots[i].f[2] - (spots[i].flat ? 1 : 0)) : name === 'floor' ? new THREE.Vector3(P[i][0], 0.5, P[i][1]) : name === 'roof' ? new THREE.Vector3(0, 0.3 + HH + 0.5, HD / 2 + 0.3) : new THREE.Vector3(DOORX, 1.9, HD / 2 + 0.3); return hg.localToWorld(v).toArray(); };
     show(); };
   // ---- the town changes: the whole street is built in the chosen way ----
   let built = [], haze = []; const streetGlass = glassMat();
@@ -211,15 +237,15 @@ function town() { const s = newScene(46, { sun: [-10, 36, 48] }), g = s.g; Objec
     plots[1 - H.sd][0].visible = false; { const h = house(g, { wx: 0, mat: MAT[pick], glass: streetGlass, thick: s.thick, w: HW, d: HD, h: HH, roofC: ROOF[1] }); h.position.set(PX[0], 0.1, SIDEZ[1 - H.sd]); h.rotation.y = H.sd ? 0 : Math.PI; if (!await put(h)) return; }
     // the pollution from making the materials for a whole street hangs in the open sky above the path, where the trees do not hide it
     for (let k = 0; k < [0, 6, 16][pick]; k++) { const sz = 2.4 + hash(k, 7) * 2.4; haze.push(blk(g, -16 - hash(k, 1) * 40, (hash(k, 2) - 0.5) * 7, sz, sz * 1.5, 6.2 + hash(k, 3) * 4.5, sz * 0.7, '#6d6763', { shadow: false, mat: soft(['#6f6a62', '#7d776d', '#5f5b55'][k % 3], 0.72) })); } };
-  s.fill = async (pick) => { const me = run; clearView(false); for (const q of H.spots) q.beam.visible = false; await glide(VIEW.street, 1.8); if (me !== run) return; plate(s, T.yours, [PX[0] - 3, 6.2, SIDEZ[H.sd] + (H.sd ? -4 : 4)], 'on'); await lay(pick, false); if (me === run) chime(); };
+  s.fill = async (pick) => { const me = run; clearView(false); near.visible = true; for (const q of H.spots) q.beam.visible = false; await glide(VIEW.street, 1.8); if (me !== run) return; plate(s, T.yours, [PX[0] - 3, 6.2, SIDEZ[H.sd] + (H.sd ? -4 : 4)], 'on'); await lay(pick, false); if (me === run) chime(); };
   s.swap = (pick) => lay(pick, true);
   // ---- the last picture: the first winter night in the street the child made; the camera walks slowly towards the school ----
   s.night = async (pick) => { const me = run, lv = level(pick), c1 = new THREE.Color(WARM[lv]), a = family.position.clone(), to = H.hg.localToWorld(new THREE.Vector3(DOORX, 0, HD / 2 - 0.6)); if (s.recapOff) s.recapOff(); famPlate.hide = true;
     glide({ eye: [7, 3.3, H.sd ? -1.2 : 1.2], at: [-40, 4.4, 0], fov: 38 }, 11);
-    await tw(2.6, (k) => { const e = ease(k); s.setNight(e); s.hemi.intensity *= 1 - 0.42 * e; s.sun.intensity *= 1 - 0.6 * e; s.scene.background.lerp(c0.set('#36426f'), e * 0.85); streetGlass.color.set(GLASS).lerp(c1, e); family.position.set(a.x + (to.x - a.x) * e, Math.abs(Math.sin(k * 12)) * 0.12, a.z + (to.z - a.z) * e); family.scale.setScalar(1 - 0.99 * Math.max(0, e - 0.7) / 0.3); }); if (me !== run) return;
+    await tw(2.6, (k) => { const e = ease(k); s.setNight(e); s.hemi.intensity *= 1 - 0.42 * e; s.sun.intensity *= 1 - 0.6 * e; s.scene.background.lerp(c0.set('#36426f'), e * 0.85); dimLeaves(0.62 + 0.3 * e); streetGlass.color.set(GLASS).lerp(c1, e); family.position.set(a.x + (to.x - a.x) * e, Math.abs(Math.sin(k * 12)) * 0.12, a.z + (to.z - a.z) * e); family.scale.setScalar(1 - 0.99 * Math.max(0, e - 0.7) / 0.3); }); if (me !== run) return;
     for (const q of H.spots) if (q.part.visible) q.glass.color.set(q.sunny || lv === 'g' ? LIT : WARM[lv]); [523, 659, 784, 1047, 1319].forEach((f, k) => setTimeout(() => { if (me === run) beep(f, 0.5, 'sine', 0.06); }, k * 260)); };
   // ---- the recap: the child taps one side of the street ----
-  s.recap = (on) => { const marks = SIDEZ.map((z, sd) => { const m = place(g, -12, sd ? 5 : -5, 36, 2.4, 0.12), pl = plate(s, T.thisSide, [-9, 8.4, z + (sd ? -4 : 4)], 'tap'); hitBox(s, g, -12, 0, z + (sd ? -4 : 4), 44, 10, 9, () => s.answer === undefined, () => go(sd)); pl.el.onclick = () => { if (s.answer === undefined) go(sd); }; return { m, pl }; });
+  s.recap = (on) => { const marks = SIDEZ.map((z, sd) => { const m = place(g, -12, sd ? 5 : -5, 36, 2.4, 0.12), pl = plate(s, T.thisSide, [-9, 6.4, z + (sd ? -4 : 4)], 'tap'); hitBox(s, g, -12, 0, z + (sd ? -4 : 4), 44, 10, 9, () => s.answer === undefined, () => go(sd)); pl.el.onclick = () => { if (s.answer === undefined) go(sd); }; return { m, pl }; });
     const stuff = marks.map((q) => q.m); s.recapOff = () => { for (const m of stuff) m.visible = false; for (const q of marks) q.pl.hide = true; };
     const go = (sd) => { s.answer = sd; beep(sd === 0 ? 880 : 300, 0.15); marks.forEach((q, i) => { q.m.visible = i === 0; q.pl.hide = i !== 0; q.pl.el.classList.remove('tap'); q.pl.el.classList.add('on'); q.pl.el.textContent = T.sunSide; });
       for (let k = 0; k < 4; k++) { const b = new THREE.Mesh(new THREE.BoxGeometry(5, 0.5, 18), soft('#ffe27a', 0.32)), base = new THREE.Vector3(-4 - k * 8, 3, SIDEZ[0] + 4); b.position.copy(base).addScaledVector(sunDir, 9); b.lookAt(base.clone().addScaledVector(sunDir, 30)); g.add(b); stuff.push(b); } on(sd === 0); };
@@ -240,19 +266,24 @@ function job() { Object.assign(S, { words: [], pick: null, first: null }); $('fi
 function ask() { if (cur.side !== null && S.pick !== null) return job(); if (cur.side !== null) glide(VIEW.street, 1); cur.clearPlans(); cur.setNight(0); const gaps = T.sentence.filter((p) => Array.isArray(p)); let now = Math.max(0, gaps.findIndex((_, i) => S.words[i] === undefined));
   const draw = () => { cur.words(S.words[0] ?? null, S.words[1] === undefined ? null : S.words[1] === 0); const sen = document.createElement('div'); sen.className = 'sentence'; let gi = 0;
     for (const p of T.sentence) { if (typeof p === 'string') sen.append(p === '.' ? p : `${p} `); else { const i = gi++, sp = document.createElement('span'); sp.className = `gap${S.words[i] !== undefined ? ' full' : ''}${i === now ? ' now' : ''}`; sp.textContent = S.words[i] !== undefined ? p[S.words[i]] : '…'; sp.onclick = () => { now = i; draw(); }; sen.append(sp, ' '); } }
-    const words = document.createElement('div'); words.className = 'words'; gaps[now].forEach((w, k) => { const b = document.createElement('button'); b.className = 'word'; b.textContent = w; b.onclick = () => { S.words[now] = k; const n = gaps.findIndex((_, i) => S.words[i] === undefined); if (n >= 0) now = n; draw(); }; words.append(b); });
+    const words = document.createElement('div'); words.className = 'words'; gaps[now].forEach((w, k) => { const b = document.createElement('button'); b.className = 'word'; b.textContent = w; b.onclick = () => { glide(now === 0 ? { ...VIEW.street, at: [-10, 3, k ? 6 : -6] } : VIEW.street, 0.9); beep(now === 0 ? 620 : 500, 0.08); S.words[now] = k; const n = gaps.findIndex((_, i) => S.words[i] === undefined); if (n >= 0) now = n; draw(); }; words.append(b); });
     const go = btn(T.ask, 'sun', plans); go.disabled = gaps.some((_, i) => S.words[i] === undefined); go.style.marginLeft = 'auto'; ui({ step: T.askT, say: T.askHow, tray: [sen, words, go], wide: true }); };
   draw(); }
 async function plans() { const s = cur, b = btn(T.test, 'sun big', async () => { b.disabled = true; ui({ step: T.test, say: T.watch, tray: [], over: '' }); if (await s.run()) ui({ step: T.level, say: T.choose, tray: [btn(T.again, '', () => { S.words = []; ask(); })], over: resultCards() }); });
   ui({ step: T.level, say: T.plansSay(T.sentence[1][S.words[0]], T.sentence[3][S.words[1]]), tray: [b] }); b.disabled = true; await s.showPlans(); b.disabled = false; }
-async function choose(i) { if (S.first !== null) return second(i); S.pick = i; const s = cur, I = { win: '<svg viewBox="0 0 44 40"><rect x="7" y="5" width="30" height="30" rx="3" fill="#a9d3ee" stroke="#1f2a44" stroke-width="3"/><path d="M22 5v30M7 20h30" stroke="#1f2a44" stroke-width="3"/></svg>', roof: '<svg viewBox="0 0 44 40"><path d="M4 30L22 8l18 22z" fill="#2e9b5a" stroke="#1f2a44" stroke-width="3" stroke-linejoin="round"/></svg>', door: '<svg viewBox="0 0 44 40"><rect x="13" y="4" width="18" height="32" rx="2" fill="#3f78b5" stroke="#1f2a44" stroke-width="3"/><circle cx="26" cy="21" r="2.2" fill="#ffd257"/></svg>' };
-  const names = { win: T.window, roof: T.roofT, door: T.doorT }, toks = {}, tray = [];
-  for (const k of ['win', 'roof', 'door']) { const b = document.createElement('button'); b.className = 'tok'; b.onclick = () => s.setTool(k); toks[k] = b; tray.push(b); }
-  const sw = document.createElement('div'); sw.innerHTML = `<div class="sws-h">${esc(T.colour)}</div><div class="sws">${DOOR.map((c, k) => `<button class="sw" data-c="${k}" style="background:${c}" aria-label="${esc(T.colour)} ${k + 1}"></button>`).join('')}</div>`; sw.onclick = (e) => { const b = e.target.closest('[data-c]'); if (b) s.setDoor(+b.dataset.c); }; tray.push(sw);
-  s.onChange = (tool, n, done, note, sunny) => { for (const k in toks) { toks[k].className = `tok${!n[k] ? ' used' : tool === k && !done ? ' on' : ''}`; toks[k].innerHTML = `${I[k]}<span>${esc(names[k])}<small>${esc(n[k] ? T.left(n[k]) : T.placed)}</small></span>`; }
+async function choose(i) { if (S.first !== null) return second(i); S.pick = i; const s = cur;
+  const svg = (inner) => `<svg viewBox="0 0 44 40">${inner}</svg>`, K = 'stroke="#1f2a44" stroke-width="3" stroke-linejoin="round"';
+  const I = { win: svg(`<rect x="7" y="5" width="30" height="30" rx="3" fill="#a9d3ee" ${K}/><path d="M22 5v30M7 20h30" ${K}/>`), bed: svg(`<rect x="4" y="16" width="36" height="14" rx="3" fill="#c8553d" ${K}/><rect x="6" y="11" width="11" height="8" rx="2" fill="#fff" ${K}/><path d="M6 30v5M38 30v5" ${K}/>`),
+    table: svg(`<rect x="5" y="10" width="34" height="7" rx="2" fill="#9a6b3c" ${K}/><path d="M11 17v17M33 17v17" ${K}/>`), sofa: svg(`<rect x="8" y="8" width="28" height="14" rx="3" fill="#356d98" ${K}/><rect x="4" y="18" width="36" height="13" rx="3" fill="#3f7fb0" ${K}/>`),
+    door: svg(`<rect x="13" y="4" width="18" height="32" rx="2" fill="#3f78b5" ${K}/><circle cx="26" cy="21" r="2.2" fill="#ffd257"/>`), roof: svg(`<path d="M4 30L22 8l18 22z" fill="#2e9b5a" ${K}/>`) };
+  const keys = ['win', 'bed', 'table', 'sofa', 'door', 'roof'], names = { win: T.window, bed: T.bedT, table: T.tableT, sofa: T.sofaT, roof: T.roofT, door: T.doorT }, toks = {}, tray = [];
+  for (const k of keys) { const b = document.createElement('button'); b.className = 'tok mini'; b.dataset.tool = k; b.onclick = () => s.setTool(k); toks[k] = b; tray.push(b); }
+  const sw = document.createElement('div'); sw.innerHTML = `<div class="sws-h">${esc(T.colour)}</div><div class="sws">${DOOR.map((c, k) => `<button class="sw" data-c="${k}" style="background:${c}" aria-label="${esc(T.colour)} ${k + 1}"></button>`).join('')}</div>`; sw.onclick = (e) => { const b = e.target.closest('[data-c]'); if (b) s.setDoor(+b.dataset.c); }; tray.splice(5, 0, sw);
+  const says = (ps) => { $('say').innerHTML = ps.filter(Boolean).map((p) => `<p>${esc(p)}</p>`).join(''); };
+  s.onChange = (tool, n, done, note, ready, wins) => { for (const k of keys) { const wait = k === 'roof' && !ready, off = k === 'win' ? !n.win && (done || !wins) : !n[k]; toks[k].className = `tok mini${off || wait ? ' used' : tool === k && !done ? ' on' : ''}`; toks[k].innerHTML = `${I[k]}<span>${esc(names[k])}<small>${esc(!n[k] ? T.placed : wait ? T.last : T.left(n[k]))}</small></span>`; }
     for (const b of sw.querySelectorAll('.sw')) b.classList.toggle('on', +b.dataset.c === S.doorC);
-    $('say').innerHTML = [done ? '' : note, done ? T.ready[sunny] : tool === 'win' ? (n.win === 2 ? T.win2 : T.win1) : tool === 'roof' ? T.roof : T.door].filter(Boolean).map((p) => `<p>${esc(p)}</p>`).join(''); };
-  s.onDone = () => { $('tray').replaceChildren(btn(T.next, 'sun', townStep)); };
+    if (!done) says([note, tool === 'win' ? (n.win === 2 ? T.win2 : n.win === 1 ? T.win1 : T.winMove) : tool === 'roof' ? T.roof : tool === 'door' ? T.door : T.putAsk[['bed', 'table', 'sofa'].indexOf(tool)]]); };
+  s.onDone = () => { const th = s.sunThings.map((k) => names[k].toLowerCase()); says([T.homeDone, th.length ? T.sunThings(th) : '']); $('tray').replaceChildren(btn(T.next, 'sun', townStep)); };
   ui({ step: T.build, say: '', tray: [], over: '' }); await s.startBuild(i); if (cur === s) $('tray').replaceChildren(...tray); }
 
 const after = (i) => `${T.afterAir[i]} ${T.afterWarm[cur.level(i)]}`;

diff --git a/docs/redesign/concepts/trial/index.html b/docs/redesign/concepts/trial/index.html
@@ -60,6 +60,7 @@
   .word { min-height: 52px; padding: 8px 16px; background: #fff; border: 3px solid var(--ui-ink); border-radius: 14px; box-shadow: 0 5px 0 var(--ui-ink); font: var(--ui-t-chip); cursor: pointer; }
   .word:active { transform: translateY(4px); box-shadow: 0 1px 0 var(--ui-ink); }
   .tok { display: grid; grid-template-columns: 44px auto; align-items: center; gap: 8px; min-width: 150px; min-height: 60px; padding: 5px 14px 5px 8px; background: #fff; border: 3px solid var(--ui-ink); border-radius: 14px; box-shadow: 0 5px 0 var(--ui-ink); font: 700 18px/1.15 var(--ui-body); text-align: left; cursor: pointer; }
+  .tok.mini { grid-template-columns: 1fr; justify-items: center; gap: 0; min-width: 0; width: 96px; min-height: 0; padding: 4px 4px 6px; text-align: center; font-size: 16px; } .tok.mini small { font-size: 12px; } .tok.mini svg { width: 40px; height: 34px; }
   .tok small { display: block; font: 700 15px/1.2 var(--ui-body); color: var(--ui-ink-soft); }
   .tok.on { background: var(--ui-sun); }
   .tok.used { background: var(--ui-paper-dim); border-style: dashed; box-shadow: none; transform: translateY(5px); color: var(--ui-ink-soft); cursor: default; }
@@ -67,6 +68,8 @@
   .sws { display: grid; grid-template-columns: repeat(2, 42px); gap: 8px; } .sws-h { font: 700 15px/1.1 var(--ui-body); color: var(--ui-ink-soft); margin-bottom: 6px; }
   .sw { width: 42px; height: 42px; border: 3px solid var(--ui-ink); border-radius: 10px; box-shadow: 0 4px 0 var(--ui-ink); cursor: pointer; padding: 0; }
   .sw.on { outline: 4px solid var(--ui-sun); outline-offset: 2px; transform: translateY(-3px); }
+  @media (max-height: 700px) { .over { gap: 8px; bottom: 8px; } .card { padding: 7px 11px 9px; gap: 3px; } .card .res { grid-template-columns: 26px 1fr; gap: 6px; font-size: 13px; line-height: 1.2; } .card .res + .res { padding-top: 3px; } .card .mark { width: 22px; height: 22px; font-size: 14px; } .card .btn { min-height: 38px; padding: 4px 10px; font-size: 17px; margin-top: 2px; } }
+  @media (max-height: 700px) { .tray { gap: 6px 8px; } .tok.mini { width: 84px; padding: 2px 2px 4px; font-size: 14px; box-shadow: 0 4px 0 var(--ui-ink); } .tok.mini svg { width: 32px; height: 26px; } .sw { width: 32px; height: 32px; } }
   .first { position: absolute; left: 16px; top: 76px; z-index: 3; display: flex; flex-direction: column; gap: 5px; padding: 9px 13px 10px; background: var(--ui-paper); border: 3px solid var(--ui-ink); border-radius: 14px; box-shadow: var(--ui-shadow-rest); font: 700 16px/1.2 var(--ui-body); }
   .first[hidden] { display: none; } .first b { font: 800 17px/1.2 var(--ui-display); } .first span { display: flex; align-items: center; gap: 8px; } .first .mark { width: 24px; height: 24px; font-size: 15px; }
   .fps { position: absolute; right: 16px; bottom: 8px; z-index: 4; font: 600 14px/1 var(--ui-body); background: #fff; border: 2px solid var(--ui-ink); border-radius: 8px; padding: 4px 8px; }
